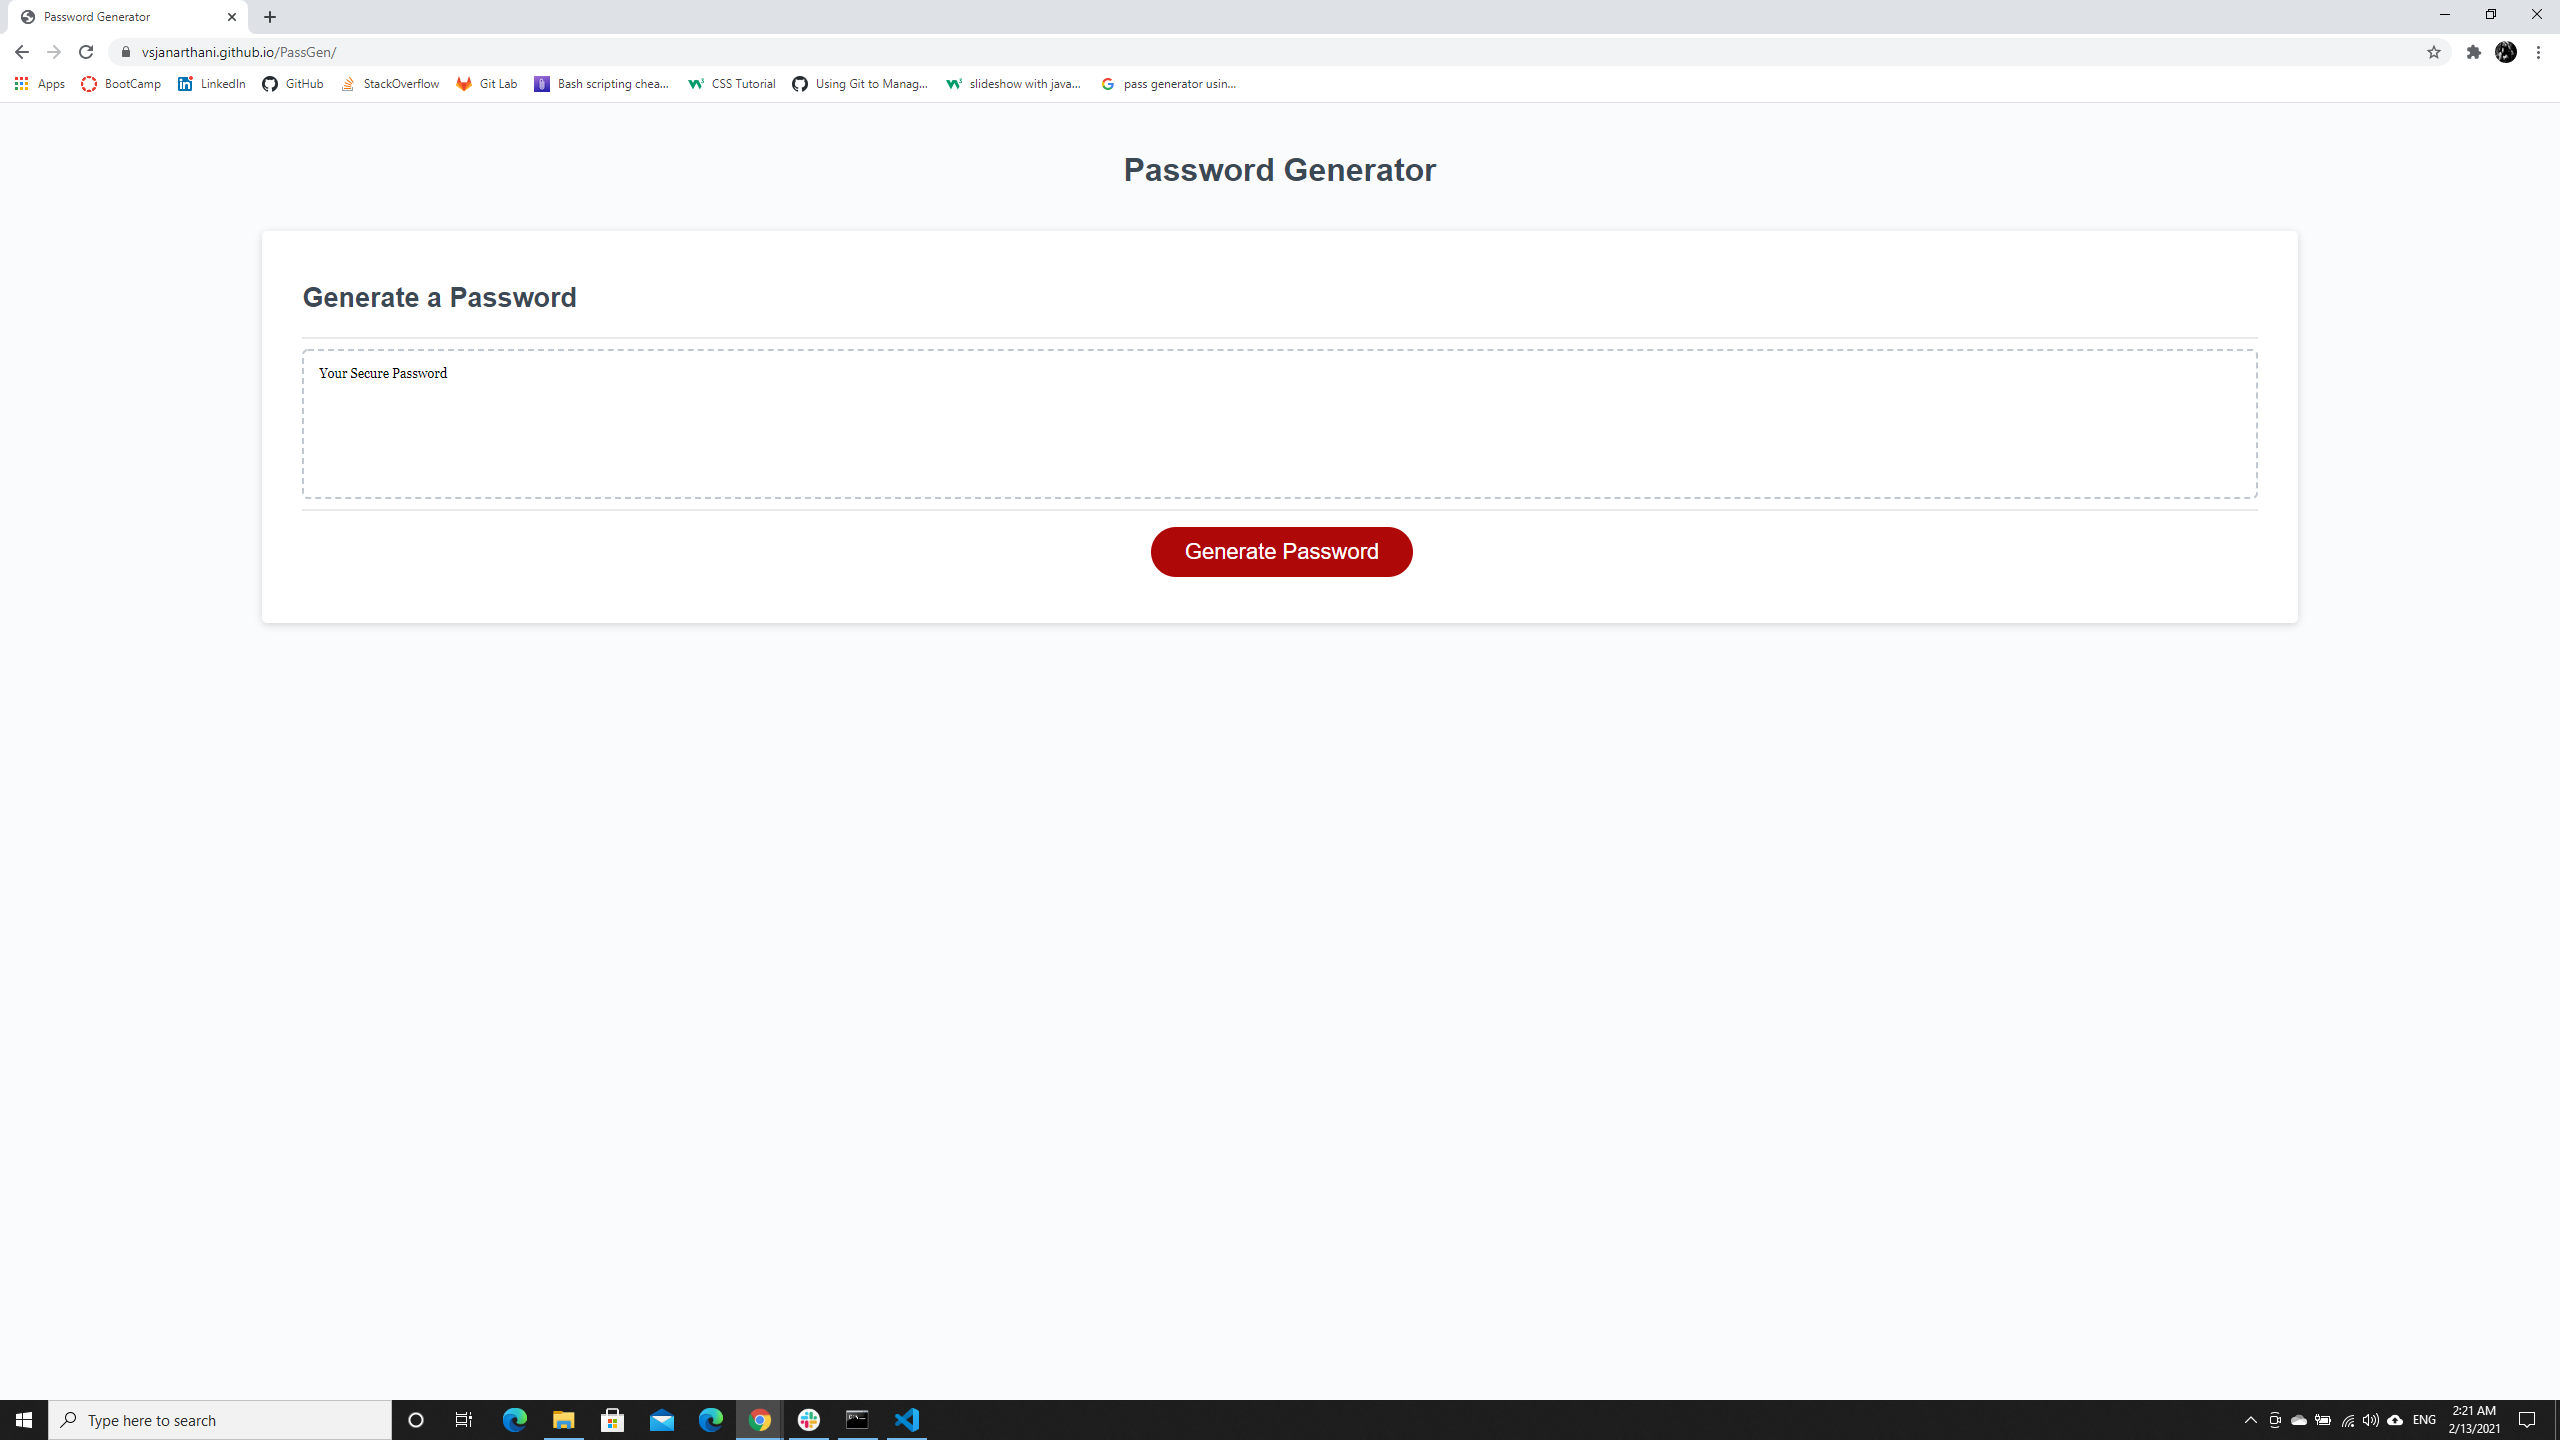
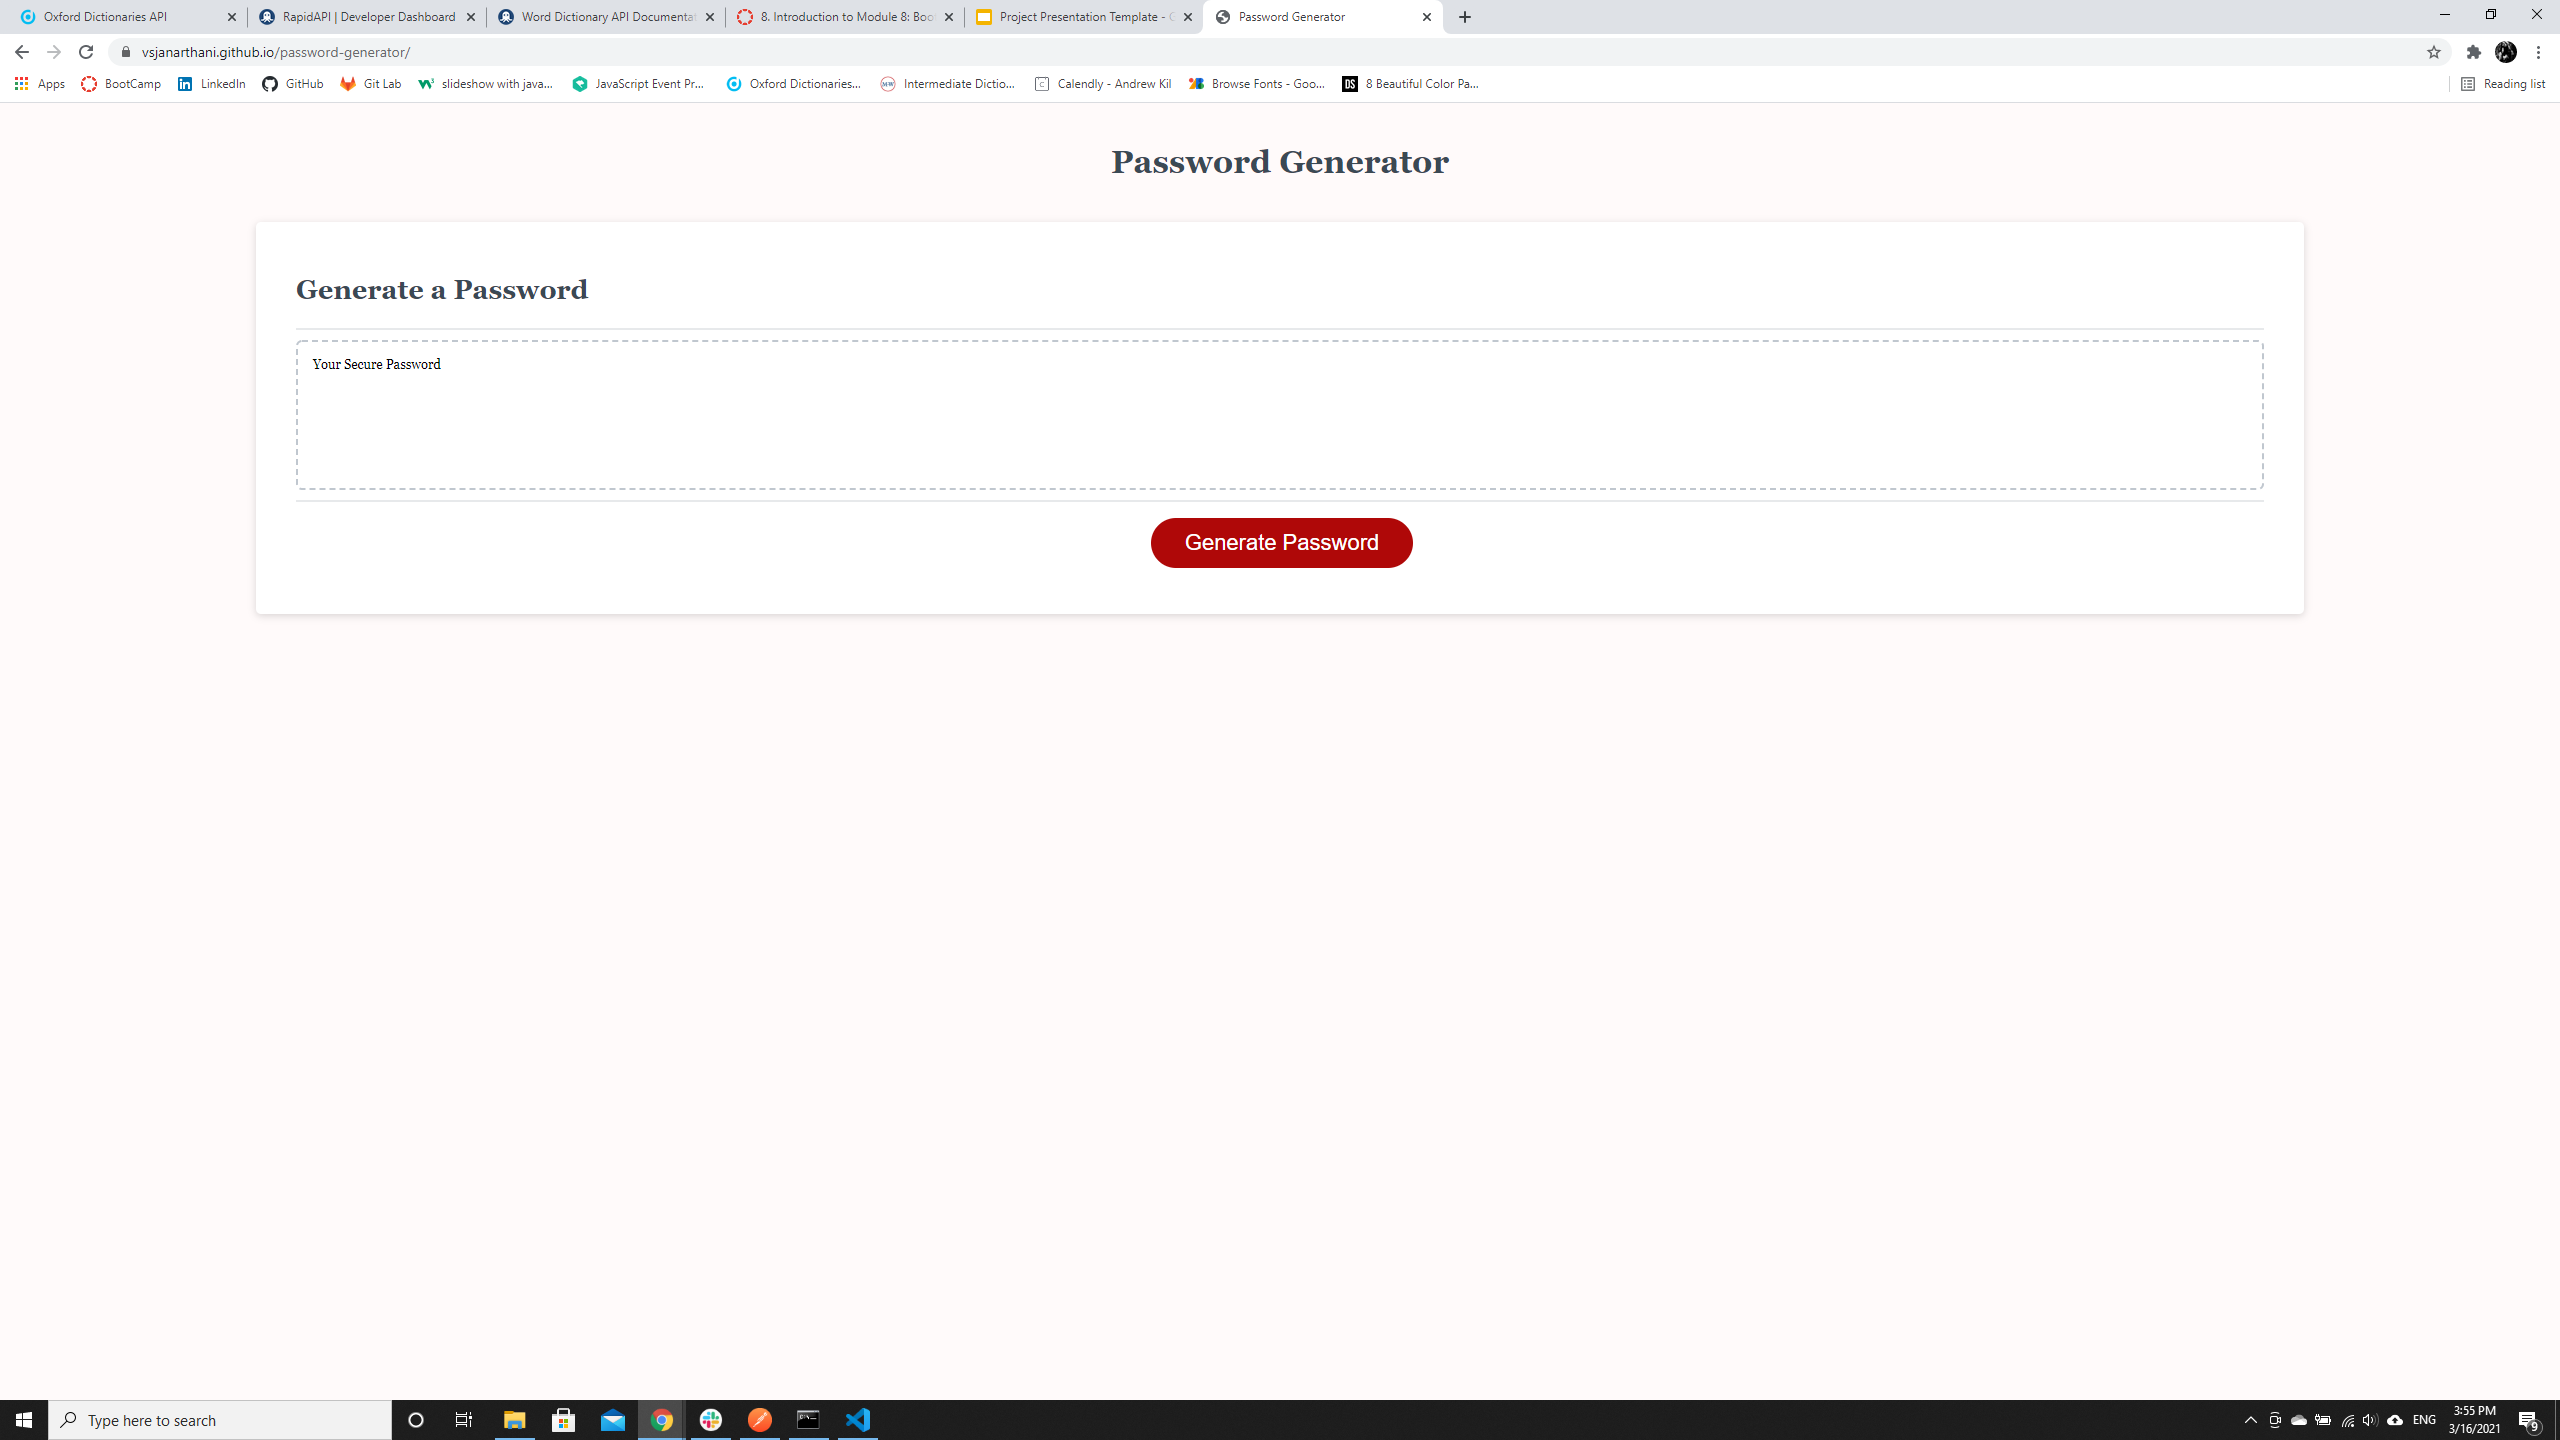
changes made to readme

diff --git a/readme.md b/readme.md
@@ -1,15 +1,17 @@
 # Password Generator
 ## Description
-This website is for Password Generation. When you click on Generate Password Button, you will be given a pop up prompt to select the length of the password and the character set to include such as uppercase, lowercase, numbers and symbols. Based on the input your password is generated. 
+This website is for Password Generation. When you click on Generate Password Button, a form will appear to select the length of the password and the character sets to include such as uppercase, lowercase, numbers and symbols. Based on the input your password will be generated. 
 ## Live URL
-Please find the website deployed here - [(https://vsjanarthani.github.io/PassGen/)]
+Please find the website deployed here - [https://vsjanarthani.github.io/password-generator/]
 ## Built With
 * HTML
 * CSS
 * JavaScript
 ## Screenshot of the Deployed Webpage
-![code](./assets/images/webpage.png)
+![webpagescreenshot1](./assets/images/webpage.png)
 
-![code](./assets/images/webpage2.png)
+![webpagescreenshot2](./assets/images/webpage2.png)
+
+![webpagescreenshot3](./assets/images/webpage3.png)
 ## Contribution
 Made with :heart: by **Janarthani V Subramaniam**
